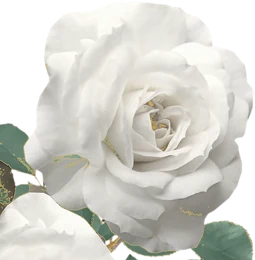
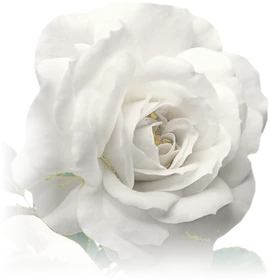
Flores mejor integradas, carrusel fluido y poema del infinito

diff --git a/boda-omar-itzel/index.html b/boda-omar-itzel/index.html
@@ -74,6 +74,10 @@ h2.titulo em{font-family:var(--script);font-style:normal;font-size:1.3em;padding
 #sobre .sobre-wrap{padding-top:clamp(40px,9vh,90px)}
 @keyframes mece{from{transform:rotate(-1.2deg)}to{transform:rotate(1.2deg)}}
 .con-flores{overflow:hidden}
+/* integración: el borde que toca otra sección se desvanece; sobre fotos, tono un poco más bajo */
+.flor-esq.funde img{-webkit-mask-image:linear-gradient(to bottom,transparent 0,#000 30%);mask-image:linear-gradient(to bottom,transparent 0,#000 30%)}
+.flor-esq img{filter:drop-shadow(0 6px 14px rgba(6,18,14,.35))}
+.con-foto .flor-esq img{filter:brightness(.93) drop-shadow(0 6px 16px rgba(6,18,14,.5))}
 .flores-fondo{position:fixed;inset:0;overflow:hidden;pointer-events:none}
 .rama{overflow:visible}
 
@@ -237,24 +241,42 @@ section.bloque > .cont{max-width:560px;margin:0 auto;position:relative;z-index:1
 .hero.con-foto{place-items:end center;padding-bottom:calc(var(--dock) + 64px);background-position:center 20%!important}
 .hero.con-foto .hero-inner{text-shadow:0 2px 18px rgba(0,0,0,.45)}
 .hero.con-foto .nombres{margin:.2rem 0 .6rem;font-size:clamp(3rem,13.5vw,4.8rem);white-space:nowrap}
-.hero.con-foto .y{display:inline-block;font-size:.42em;margin:0 .45em 0 .3em;vertical-align:.3em}
+.hero.con-foto .y{display:inline-block;font-size:.42em;margin:0 .5em;vertical-align:.3em}
 .hero.con-foto .eyebrow{font-size:.58rem;letter-spacing:.24em}
 .hero.con-foto .rama{margin-bottom:.8rem}
 .hero.con-foto .lead{font-size:1.05rem}
 
-/* nuestra historia: mazo de fotos */
+/* poema: el 8 que se vuelve infinito */
+#poema{padding-block:110px}
+.infinito{width:min(46vw,190px);height:auto;display:block;margin:0 auto 1.6rem;overflow:visible}
+.infinito path{fill:none;stroke:url(#gOro);stroke-width:4.5;stroke-linecap:round;stroke-dasharray:330;stroke-dashoffset:330;
+  filter:drop-shadow(0 0 6px rgba(236,213,154,.35))}
+.infinito g{transform-origin:60px 60px;transform:rotate(0deg);transition:transform 1.3s cubic-bezier(.34,1.56,.64,1) 1.7s}
+.infinito.vivo path{animation:traza 1.6s ease-out forwards}
+.infinito.vivo g{transform:rotate(90deg)}
+@keyframes traza{to{stroke-dashoffset:0}}
+.verso{font-family:var(--serif);font-style:italic;font-weight:300;font-size:clamp(1.5rem,6.2vw,2rem);line-height:1.35;max-width:22ch;margin:0 auto;color:var(--marfil)}
+.verso::before,.verso::after{font-family:var(--serif);color:var(--oro);font-size:1.3em;line-height:0;vertical-align:-.25em}
+.verso::before{content:"«"}.verso::after{content:"»"}
+.autor{font-family:var(--sans);font-size:.68rem;letter-spacing:.38em;text-transform:uppercase;color:var(--oro);margin-top:1.4rem}
+
+/* nuestra historia: carrusel fluido */
+.carrusel{display:flex;gap:14px;overflow-x:auto;scroll-snap-type:x mandatory;-webkit-overflow-scrolling:touch;scrollbar-width:none;
+  margin:2.2rem -16px 0;padding:10px calc(50vw - min(37vw,165px)) 18px;overscroll-behavior-x:contain}
+.carrusel::-webkit-scrollbar{display:none}
+.foto-h{position:relative;flex:0 0 min(74vw,330px);aspect-ratio:3/4;margin:0;border-radius:18px;overflow:hidden;scroll-snap-align:center;
+  box-shadow:0 24px 44px -20px rgba(0,0,0,.8),0 0 0 1px rgba(200,164,90,.35);transform:scale(var(--k,1));opacity:var(--o,1);transition:box-shadow .4s}
+.foto-h img{width:100%;height:100%;object-fit:cover;display:block;transform:scale(1.08);transition:transform 6s ease-out}
+.foto-h.activa img{transform:scale(1)}
+.foto-h::after{content:"";position:absolute;inset:0;background:linear-gradient(180deg,transparent 55%,rgba(15,32,27,.88));pointer-events:none}
+.foto-h::before{content:"";position:absolute;inset:8px;border:1px solid rgba(236,213,154,.4);border-radius:12px;z-index:1;pointer-events:none}
+.foto-h figcaption{position:absolute;left:0;right:0;bottom:18px;z-index:2;text-align:center;font-family:var(--script);font-size:1.75rem;line-height:1.2;
+  color:var(--marfil);padding:0 14px;opacity:var(--c,1);transform:translateY(calc((1 - var(--c,1)) * 10px));text-shadow:0 2px 10px rgba(0,0,0,.5)}
+.puntos-mazo{display:flex;gap:8px;justify-content:center;margin-top:6px}
+.puntos-mazo button{width:8px;height:8px;padding:0;border:0;border-radius:50%;background:rgba(241,234,217,.25);cursor:pointer;transition:background .4s,transform .4s}
+.puntos-mazo button.on{background:var(--oro);transform:scale(1.35)}
 .flecha{width:44px;height:44px;border-radius:50%;border:1px solid var(--linea);background:none;cursor:pointer;color:var(--oro);display:grid;place-items:center;transition:border-color .3s,background .3s}
 .flecha:hover{border-color:var(--oro);background:rgba(200,164,90,.08)}
-.mazo{position:relative;width:min(78vw,330px);aspect-ratio:3/4;margin:2.4rem auto 0;touch-action:pan-y;user-select:none;-webkit-user-select:none}
-.polaroid{position:absolute;inset:0;background:#f6f2e8;padding:10px 10px 52px;border-radius:4px;cursor:grab;
-  box-shadow:0 22px 40px -18px rgba(0,0,0,.75),0 0 0 1px rgba(200,164,90,.25);transition:transform .6s var(--ease),opacity .45s;will-change:transform}
-.polaroid img{width:100%;height:100%;object-fit:cover;display:block;border-radius:2px;pointer-events:none}
-.polaroid figcaption{position:absolute;left:0;right:0;bottom:12px;text-align:center;font-family:var(--script);font-size:1.6rem;line-height:1.2;color:#2a3b33;padding:0 8px}
-.polaroid.vuela{transition:transform .55s cubic-bezier(.5,0,.75,0),opacity .55s}
-.mazo-nav{display:flex;align-items:center;justify-content:center;gap:16px;margin-top:22px}
-.puntos-mazo{display:flex;gap:7px}
-.puntos-mazo i{width:7px;height:7px;border-radius:50%;background:rgba(241,234,217,.25);transition:background .4s,transform .4s}
-.puntos-mazo i.on{background:var(--oro);transform:scale(1.3)}
 
 /* ubicaciones con foto */
 #ceremonias{padding-bottom:0}
@@ -521,7 +543,7 @@ html.modo-pestanas body.deck-on .deck-ui{display:block}
   <header class="hero" id="inicio">
     <div class="satin" aria-hidden="true"></div>
     <div class="marco" aria-hidden="true"></div>
-    <div class="flor-esq tl" aria-hidden="true"><img src="assets/ilustraciones/esquina-rosas.webp" alt="" decoding="async"></div><div class="flor-esq br" aria-hidden="true"><img src="assets/ilustraciones/esquina-rosas.webp" alt="" decoding="async"></div>
+    <div class="flor-esq tl" aria-hidden="true"><img src="assets/ilustraciones/esquina-rosas.webp" alt="" decoding="async"></div><div class="flor-esq br funde" aria-hidden="true"><img src="assets/ilustraciones/esquina-rosas.webp" alt="" decoding="async"></div>
     <div class="hero-inner">
       <p class="eyebrow rv">Con la bendición de Dios y de nuestros padres</p>
       <h2 class="nombres foil rv d1">Itzel<span class="y">y</span>Omar</h2>
@@ -533,7 +555,7 @@ html.modo-pestanas body.deck-on .deck-ui{display:block}
 
   <!-- ============ RASPA Y DESCUBRE ============ -->
   <section class="bloque alt terciopelo con-flores" id="fecha">
-    <div class="flor-esq tr suave" aria-hidden="true"><img src="assets/ilustraciones/esquina-rosas.webp" alt="" decoding="async"></div>
+    
     <div class="cont">
       <svg class="rama rv"><use href="#rama"/></svg>
       <p class="eyebrow rv">Raspa y descubre</p>
@@ -586,17 +608,23 @@ html.modo-pestanas body.deck-on .deck-ui{display:block}
       <svg class="rama rv"><use href="#rama"/></svg>
       <p class="eyebrow rv">Nuestra historia</p>
       <h2 class="titulo rv">Momentos <em class="foil">juntos</em></h2>
-      <div class="mazo rv d1" id="mazo" aria-roledescription="carrusel" aria-label="Fotos de Itzel y Omar"></div>
-      <div class="mazo-nav rv d1">
-        <button class="flecha" id="mazoPrev" type="button" aria-label="Foto anterior"><svg class="ic"><use href="#i-izq"/></svg></button>
-        <span class="puntos-mazo" id="puntosMazo"></span>
-        <button class="flecha" id="mazoNext" type="button" aria-label="Siguiente foto"><svg class="ic"><use href="#i-der"/></svg></button>
-      </div>
-      <p class="pista rv d2">Toca o desliza las fotos</p>
+      <div class="carrusel rv d1" id="carrusel" aria-label="Fotos de Itzel y Omar"></div>
+      <div class="puntos-mazo" id="puntosMazo"></div>
+      <p class="pista rv d2">Desliza para ver más</p>
     </div>
   </section>
 
-  <section class="bloque alt terciopelo" id="cancion">
+  <section class="bloque alt terciopelo" id="poema">
+    <div class="cont">
+      <svg class="infinito rv" id="infinito" viewBox="0 0 120 120" aria-hidden="true">
+        <g><path d="M60 60C84 36 84 12 60 12S36 36 60 60 84 84 84 96 72 108 60 108 36 96 36 84 48 72 60 60Z"/></g>
+      </svg>
+      <p class="verso rv d1">…darle una patada al 8 y hacerla un infinito</p>
+      <p class="autor rv d2">César Brandon</p>
+    </div>
+  </section>
+
+  <section class="bloque" id="cancion">
     <div class="cont">
       <p class="eyebrow rv">La canción de nuestra historia</p>
       <h2 class="titulo rv">Nuestra <em class="foil">canción</em></h2>
@@ -653,7 +681,7 @@ html.modo-pestanas body.deck-on .deck-ui{display:block}
 
   <!-- ============ REGALOS ============ -->
   <section class="bloque alt terciopelo con-flores">
-    <div class="flor-esq bl suave" aria-hidden="true"><img src="assets/ilustraciones/esquina-rosas.webp" alt="" decoding="async"></div>
+    
     <div class="cont">
       <p class="eyebrow rv">Mesa de regalos</p>
       <h2 class="titulo rv">Un <em class="foil">detalle</em></h2>
@@ -679,7 +707,7 @@ html.modo-pestanas body.deck-on .deck-ui{display:block}
 
   <!-- ============ RSVP ============ -->
   <section class="bloque con-flores" id="rsvp">
-    <div class="flor-esq tl suave" aria-hidden="true"><img src="assets/ilustraciones/esquina-rosas.webp" alt="" decoding="async"></div><div class="flor-esq br suave" aria-hidden="true"><img src="assets/ilustraciones/esquina-rosas.webp" alt="" decoding="async"></div>
+    
     <div class="cont">
       <svg class="rama rv"><use href="#rama"/></svg>
       <p class="eyebrow rv">R.S.V.P.</p>
@@ -703,7 +731,7 @@ html.modo-pestanas body.deck-on .deck-ui{display:block}
 </main>
 
 <footer class="terciopelo con-flores">
-  <div class="flor-esq tr" aria-hidden="true"><img src="assets/ilustraciones/esquina-rosas.webp" alt="" decoding="async"></div><div class="flor-esq bl" aria-hidden="true"><img src="assets/ilustraciones/esquina-rosas.webp" alt="" decoding="async"></div>
+  <div class="flor-esq tr funde" aria-hidden="true"><img src="assets/ilustraciones/esquina-rosas.webp" alt="" decoding="async"></div><div class="flor-esq bl" aria-hidden="true"><img src="assets/ilustraciones/esquina-rosas.webp" alt="" decoding="async"></div>
   <svg class="rama"><use href="#rama"/></svg>
   <p class="mono foil">I &amp; O</p>
   <p class="gracias">Gracias por ser parte de nuestra historia. ¡Te esperamos!</p>
@@ -744,7 +772,7 @@ const CONFIG = {
   },
   // fotos de fondo por sección (rutas en assets/fotos/). Vacío = fondo verde terciopelo.
   fondos: { inicio: 'assets/fotos/arco-beso-mejilla.jpg', fecha: '', cancion: '', itinerario: '', rsvp: 'assets/fotos/arco-beso.jpg', final: 'assets/fotos/arco-sonrisa.jpg' },
-  // mazo de "Nuestra historia": foto + pie
+  // carrusel de "Nuestra historia": foto + pie
   historia: [
     { foto: 'assets/fotos/cabana.jpg', pie: 'Entre bosques' },
     { foto: 'assets/fotos/mirador.jpg', pie: 'Mirando el horizonte juntos' },
@@ -804,7 +832,7 @@ function loop() {
 }
 // destello dorado al tocar cualquier parte
 document.addEventListener('pointerdown', e => {
-  if (document.body.classList.contains('cerrado') || e.target.closest('input,textarea,select,.raspa,.mazo')) return;
+  if (document.body.classList.contains('cerrado') || e.target.closest('input,textarea,select,.raspa,.carrusel')) return;
   burst(e.clientX, e.clientY, 9, 3, 'chispa');
 });
 
@@ -976,46 +1004,45 @@ Object.values(CONFIG.lugares).forEach(l => {
   cajaLugares.appendChild(art);
 });
 
-/* ===== Nuestra historia: mazo de fotos ===== */
-const mazo = $('#mazo'), FOTOS = CONFIG.historia || [];
-let tope = 0, mazoFin = false;
+/* ===== Nuestra historia: carrusel fluido ===== */
+const car = $('#carrusel'), FOTOS = CONFIG.historia || [];
 FOTOS.forEach((f, k) => {
-  const fig = document.createElement('figure'); fig.className = 'polaroid';
+  const fig = document.createElement('figure'); fig.className = 'foto-h';
   fig.innerHTML = `<img src="${esc(f.foto)}" alt="${esc(f.pie)}" loading="lazy" decoding="async"><figcaption>${esc(f.pie)}</figcaption>`;
-  mazo.appendChild(fig); $('#puntosMazo').appendChild(document.createElement('i'));
+  car.appendChild(fig);
+  const b = document.createElement('button'); b.setAttribute('aria-label', `Foto ${k + 1}`);
+  b.addEventListener('click', () => irFoto(k)); $('#puntosMazo').appendChild(b);
 });
-const giros = [-4, 3, -2, 5, -5, 2, -3];
-function acomodar() {
-  const cartas = [...mazo.children], n = cartas.length;
-  cartas.forEach((c, k) => {
-    const pos = (k - tope + n) % n;                    // 0 = arriba
-    c.style.zIndex = n - pos;
-    c.style.transform = `translate(${pos * 4}px,${pos * 6}px) rotate(${pos === 0 ? 0 : giros[k % giros.length]}deg) scale(${1 - pos * .03})`;
-    c.style.opacity = pos > 3 ? 0 : 1;
-    c.setAttribute('aria-hidden', pos !== 0);
+let fotoAct = -1, carRaf = 0, carFin = false;
+function pintarCar() {
+  carRaf = 0;
+  const cx = car.getBoundingClientRect().left + car.clientWidth / 2; let mejor = 0, md = 1e9;
+  [...car.children].forEach((c, k) => {
+    const r = c.getBoundingClientRect(), d = Math.abs(r.left + r.width / 2 - cx), t = Math.min(d / r.width, 1);
+    c.style.setProperty('--k', (1 - t * .12).toFixed(3)); c.style.setProperty('--o', (1 - t * .45).toFixed(3)); c.style.setProperty('--c', Math.max(0, 1 - t * 2.2).toFixed(3));
+    if (d < md) { md = d; mejor = k; }
   });
-  $$('#puntosMazo i').forEach((p, k) => p.classList.toggle('on', k === tope));
+  if (mejor !== fotoAct) {
+    fotoAct = mejor;
+    [...car.children].forEach((c, k) => c.classList.toggle('activa', k === mejor));
+    $$('#puntosMazo button').forEach((b, k) => b.classList.toggle('on', k === mejor));
+    if (mejor === FOTOS.length - 1 && !carFin) { carFin = true; const r = car.children[mejor].getBoundingClientRect(); burst(r.left + r.width / 2, r.top + r.height * .7, 55, 7); }
+  }
 }
-function pasar(dir = 1) {
-  if (!FOTOS.length) return;
-  const arriba = mazo.children[tope];
-  if (dir > 0) {
-    arriba.classList.add('vuela'); arriba.style.transform = `translate(${dir * 120}%, -8%) rotate(${dir * 18}deg)`; arriba.style.opacity = 0;
-    setTimeout(() => { arriba.classList.remove('vuela'); tope = (tope + 1) % FOTOS.length; acomodar(); revisarFin(); }, 380);
-  } else { tope = (tope - 1 + FOTOS.length) % FOTOS.length; acomodar(); }
-}
-function revisarFin() {
-  if (tope === FOTOS.length - 1 && !mazoFin) { mazoFin = true; const r = mazo.getBoundingClientRect(); burst(r.left + r.width / 2, r.top + r.height / 2, 60, 8); }
-}
-let mx0 = null;
-mazo.addEventListener('pointerdown', e => { mx0 = [e.clientX, e.clientY]; });
-mazo.addEventListener('pointerup', e => {
-  if (!mx0) return; const dx = e.clientX - mx0[0], dy = e.clientY - mx0[1]; mx0 = null;
-  if (Math.abs(dx) > 40 && Math.abs(dx) > Math.abs(dy)) pasar(dx < 0 ? 1 : -1); else if (Math.abs(dx) < 8 && Math.abs(dy) < 8) pasar(1);
-});
-$('#mazoNext').addEventListener('click', () => pasar(1));
-$('#mazoPrev').addEventListener('click', () => pasar(-1));
-acomodar();
+function irFoto(k) { const c = car.children[k]; if (c) car.scrollTo({ left: c.offsetLeft - (car.clientWidth - c.clientWidth) / 2, behavior: 'smooth' }); }
+car.addEventListener('scroll', () => { if (!carRaf) carRaf = requestAnimationFrame(pintarCar); }, { passive: true });
+addEventListener('resize', pintarCar);
+// avanza sola mientras está a la vista y nadie la toca
+let carVisible = false, carToque = 0;
+new IntersectionObserver(([x]) => carVisible = x.isIntersecting, { threshold: .5 }).observe(car);
+['pointerdown', 'touchstart', 'wheel'].forEach(ev => car.addEventListener(ev, () => carToque = Date.now(), { passive: true }));
+setInterval(() => { if (carVisible && !reduce && Date.now() - carToque > 6000 && !document.hidden) irFoto((fotoAct + 1) % FOTOS.length); }, 4200);
+requestAnimationFrame(pintarCar);
+
+/* ===== Poema: el 8 se vuelve infinito ===== */
+new IntersectionObserver(([x], o) => { if (x.isIntersecting) { $('#infinito').classList.add('vivo'); o.disconnect();
+  setTimeout(() => { const r = $('#infinito').getBoundingClientRect(); burst(r.left + r.width / 2, r.top + r.height / 2, 26, 5, 'chispa'); }, 2600); } },
+  { threshold: .6 }).observe($('#infinito'));
 
 /* ===== Itinerario: línea de tiempo ===== */
 const MOMENTOS = [
@@ -1096,7 +1123,7 @@ function iniciarDeck() {
   [...foot.children].filter(c => !c.classList.contains('flor-esq')).forEach(c => envol.appendChild(c));
   foot.appendChild(envol); main.appendChild(foot);
   const slides = [...main.children];
-  const NOMBRES = ['Inicio', 'Nuestra fecha', 'Nuestros padres', 'Nuestra historia', 'Nuestra canción', 'Dónde y cuándo', 'Itinerario', 'Vestimenta', 'Regalos', 'Confirmar', 'Gracias'];
+  const NOMBRES = ['Inicio', 'Nuestra fecha', 'Nuestros padres', 'Nuestra historia', 'Infinito', 'Nuestra canción', 'Dónde y cuándo', 'Itinerario', 'Vestimenta', 'Regalos', 'Confirmar', 'Gracias'];
   slides.forEach(sl => { sl.classList.add('slide'); $('#progreso').appendChild(document.createElement('i')); });
   document.body.classList.add('deck-on');
   const links = $$('.dock a');
@@ -1128,7 +1155,7 @@ function iniciarDeck() {
   });
   // deslizar de lado para cambiar de sección
   let p0 = null;
-  main.addEventListener('pointerdown', e => { p0 = e.target.closest('.raspa,.mazo,input,textarea,select') ? null : [e.clientX, e.clientY]; });
+  main.addEventListener('pointerdown', e => { p0 = e.target.closest('.raspa,.carrusel,input,textarea,select') ? null : [e.clientX, e.clientY]; });
   main.addEventListener('pointerup', e => {
     if (!p0) return; const dx = e.clientX - p0[0], dy = e.clientY - p0[1]; p0 = null;
     if (Math.abs(dx) > 60 && Math.abs(dx) > Math.abs(dy) * 1.5) irSlide(k + (dx < 0 ? 1 : -1));
